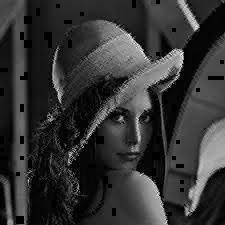
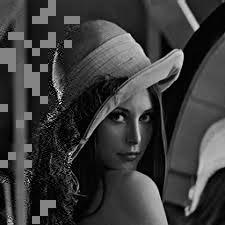
update

diff --git a/svd_steg/steganographer.py b/svd_steg/steganographer.py
@@ -141,7 +141,7 @@ class Steganographer:
             coeff = numpy.zeros((orthog_bits, orthog_bits))
             sol = numpy.zeros((orthog_bits, 1))
 
-            print("num orthog bits: " + str(orthog_bits))
+            #print("num orthog bits: " + str(orthog_bits))
 
             # actually transplant the values into our coeff and sol matrices
             # this is just actually taking hte values from testMatrix and placing
@@ -253,7 +253,7 @@ class Steganographer:
         #A = []
 
         # Set block size
-        block_size = 4
+        block_size = 8
         cols_protected = 1 # currently only works with 1, would be great to get 2 working
 
         num_rows = ((self.embedded_image).shape)[0]
@@ -261,7 +261,7 @@ class Steganographer:
 
         # bits per block
         # hardcoded for now for an 4x4 with 1 column protected matrix, math wasnt working quite right
-        bpb = 3
+        bpb = 21
 
         # num blocks possible
         num_blocks = (num_rows * num_cols)/(block_size * block_size)
@@ -291,8 +291,6 @@ class Steganographer:
 
                 # compute the SVD
                 U, S, VT = self.computeSVD(block)
-
-
 
                 # rememeber that A = U*Sigma*VT can be made standard using
                 # a matrix that is the identity martix with +-1 as the diaganol values
@@ -455,8 +453,37 @@ class Steganographer:
                 print(block)
                 print()
 
-                """
+                self.embedded_image[block_size*i:block_size*(i+1), j*block_size:block_size*(j+1)] = block
+
                 print("ATTEMPING RECOVERY")
+
+                res = self.decodeBlock(block)
+
+                print("recovered:")
+                print()
+                print(res)
+                print()
+                print("len res: " + str(len(res)))
+                print()
+                print("len embedded: " + str(len(to_embed)))
+
+                if list(to_embed) == res:
+                    self.recovered_correct += 1
+                else:
+                    correct_count = 0
+                    for i in range(0, len(to_embed)):
+                        if to_embed[i] == res[i]:
+                            correct_count += 1
+                    if math.fabs(correct_count - len(to_embed)) == 1:
+                        self.recovered_close += 1
+                    if math.fabs(correct_count - len(to_embed)) == 2:
+                        self.recovered_close_kinda += 1
+                self.recovered_total += 1
+
+
+
+
+                """
                 recovered = block
                 temp_rcvd_msg = []
 
@@ -510,38 +537,38 @@ class Steganographer:
                 """
 
                 # reassign the block after modification
-                self.embedded_image[block_size*i:block_size*(i+1), j*block_size:block_size*(j+1)] = block
+
         print("DONE")
 
 
     def decodeBlock(self, block):
-        rows = 4
-        cols = 4
+        rows = block.shape[0]
+        cols = block.shape[0]
         cols_protected = 1
         temp_rec = []
-        #get dimensions of image 
-        #calculate bits per block 
+        #get dimensions of image
+        #calculate bits per block
         #bpb = ((dim-cols_protected-1)*(dim-cols_protected))/2
 
-        #compute SVD of block 
+        #compute SVD of block
         [U, Sigma, VT] = self.computeSVD(block);
 
-        #used to make standard 
+        #used to make standard
         U_std = U
-        
-        #if first entry of column in U is negative, multiply col by -1
-        for i in range(0, U.shape[1]):      #make U standard? 
-            if (U[0][i] < 0) :
-                for j in range(0, U.shape[0]):
-                    U_std[j][i] = -1 * U[j][i]
-            
 
-        #assumes 1st row is protected 
+        #if first entry of column in U is negative, multiply col by -1
+        for i in range(0, U.shape[1]):      #make U standard?
+            if (U[0,i] < 0) :
+                for j in range(0, U.shape[0]):
+                    U_std[j,i] = -1 * U[j,i]
+
+
+        #assumes 1st row is protected
         #block size is dim
         #loop from cols protected + 1 : (n/dim) - 1
         #read data from non protected cols
-        for i in range(0, cols -1):
-            #first row always protected? 
+        for i in range(cols_protected, cols -1):
+            #first row always protected?
             for j in range(1, rows - i):
                 if (U_std[j][i] < 0):
                     temp_rec.append(-1)
@@ -549,8 +576,8 @@ class Steganographer:
                     temp_rec.append(1)
 
 
-        print("recovered message: ")
-        print(temp_rec)
+        #print("recovered message: ")
+        #print(temp_rec)
         return temp_rec
 
     def convert_message_to_string(self, bit_message):
@@ -562,7 +589,7 @@ class Steganographer:
         for b in range(int(math.floor(len(bit_message) / 7))):
             byte = bit_message[b*7:(b+1)*7]
             chars.append(chr(int(''.join([str(bit) for bit in byte]), 2)))
-        return ''.join(chars)        
+        return ''.join(chars)
 
     def decode(self):
         """Decode message from image."""
@@ -611,7 +638,12 @@ class Steganographer:
             print()
             print("number of correctly recovered: " + str(self.recovered_correct))
             print()
+            print("number of near correctly recovered: " + str(self.recovered_close))
+            print()
             print("number of recovered: " + str(self.recovered_total))
+            print()
+
+            print("recovery rate: " + str(self.recovered_correct/self.recovered_total))
             print()
 
         else:
